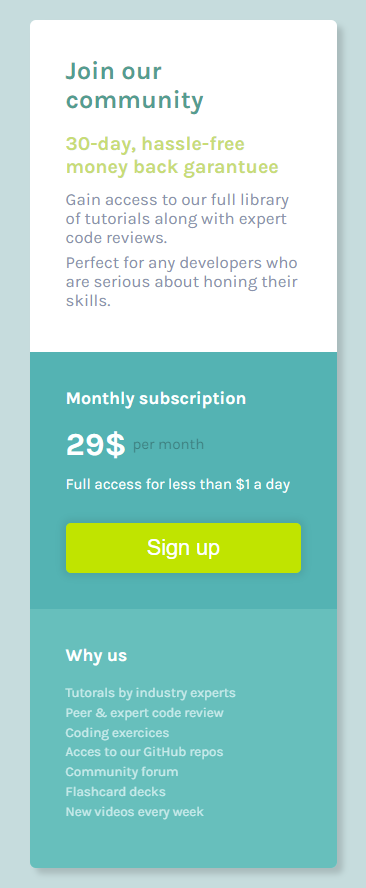
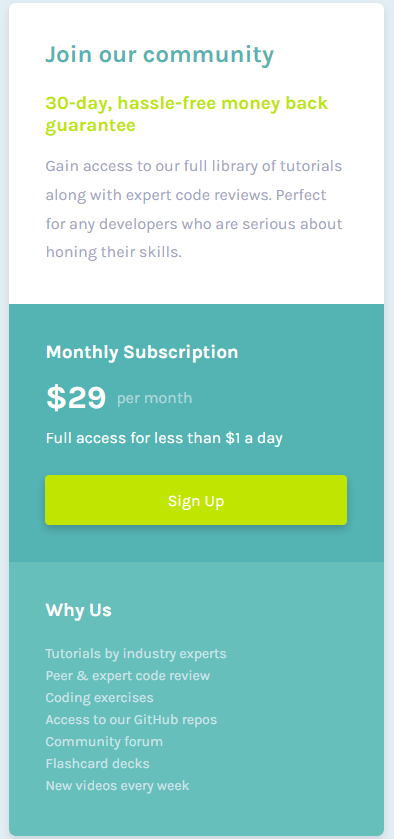
do it again from scratch

diff --git a/style.css b/style.css
@@ -1,142 +1,161 @@
-html {
-    box-sizing: border-box;
-    font-size: 14px;
-    font-family: 'Karla', sans-serif;
-    padding: 20px;
-}
-
-*,
-*:before,
-*:after {
-    box-sizing: inherit;
+* {
+  margin: 0;
+  padding: 0;
+  box-sizing: border-box;
 }
 
 body {
-    background-color: rgba(194, 220, 221, 1)
+  font-family: "Karla", sans-serif;
+  font-size: 16px;
+  display: flex;
+  align-items: center;
+  justify-content: center;
+  height: 100vh;
+  background-color: #e1edf4;
 }
 
-h2,
+h2 {
+  margin-bottom: 1.2rem;
+}
+
 h3,
+h4,
+h5,
+h6 {
+  margin-bottom: 1rem;
+}
+
 p {
-    margin: 0;
+  line-height: 1.8;
 }
 
-.main-container {
-    box-shadow: 5px 5px 5px rgba(0, 0, 0, 0.15);
-    border-radius: 5px;
-    overflow: hidden;
+h2 {
+  color: rgba(44, 178, 179, 1);
 }
 
-.community {
-    background-color: white;
-    padding: 30px;
+ul {
+  list-style-type: none;
+  color: hsl(204, 43%, 93%, 80%);
+  margin-top: 0.5rem;
 }
 
-.bottom-container {
-    display: flex;
-    flex-direction: column;
-    color: white;
-    font-size: 0.9rem;
+ul li {
+  margin-bottom: 5px;
+  font-size: 14px;
 }
 
-.subscription {
-    background-color: rgba(44, 178, 179, 1);
-    padding: 30px;
+.card {
+  width: 631px;
+  box-shadow: 0 4px 8px rgba(0, 0, 0, 0.1);
+  border-radius: 7px;
+  overflow: hidden;
 }
 
-.why-us {
-    background-color: rgba(74, 190, 189, 255);
-    padding: 30px;
+.top-section,
+.bottom-left,
+.bottom-right {
+  padding: 2.3rem;
+  display: flex;
+  flex-direction: column;
+  justify-content: center;
 }
 
-.community h2 {
-    color: rgba(60, 156, 146, 1);
-    margin-bottom: 15px;
+.top-section {
+  background-color: white;
+  flex: 1;
 }
 
-.community h3 {
-    color: rgba(201, 216, 126, 1);
-    margin-bottom: 10px;
+.top-section h2 {
+  margin-bottom: 1.5rem;
 }
 
-.community p {
-    margin-bottom: 5px;
-    color: rgba(133, 147, 171, 1);
+.top-section p {
+  color: hsl(218, 22%, 67%);
 }
 
-.subscription h3 {
-    margin-bottom: 10px;
+.top-section .moneyback {
+  color: hsl(71, 73%, 54%);
 }
 
-.subscription p {
-    margin-top: 10px;
+.bottom-section {
+  display: flex;
+  flex-direction: row;
+  flex: 1;
+  color: white;
+}
+
+.bottom-left {
+  background-color: rgba(44, 178, 179, 1);
+  width: 50%;
+}
+
+.bottom-left p {
+  margin-bottom: 0.5rem;
+}
+
+.bottom-right {
+  background-color: rgba(74, 190, 189, 255);
+  width: 50%;
 }
 
 .price-container {
-    display: flex;
-    align-items: center;
-    margin-top: 15px;
+  display: flex;
+  flex-direction: row;
+  align-items: center;
+  margin-bottom: 0.5rem;
 }
 
-#price {
-    font-weight: bold;
-    font-size: 1.9rem;
+.price-value {
+  font-size: 32px;
+  font-weight: 700;
+  margin-right: 10px;
 }
 
-#price-frequency {
-    color: rgba(34, 102, 102, 1);
-    opacity: 0.7;
-    margin-left: 5px;
+.price-mensuality {
+  margin-right: 5px;
+  color: hsl(204, 43%, 93%, 60%);
 }
 
-#sign-up-btn {
-    font-size: 18px;
-    color: white;
+.signup-btn {
+  width: 100%;
+  height: 50px;
+  display: block;
+  margin-top: 15px;
+  background-color: hsl(71, 73%, 54%);
+  color: white;
+  border-width: 0;
+  border-radius: 4px;
+  box-shadow: 0 4px 8px rgba(0, 0, 0, 0.2);
+  font-family: "Karla", sans-serif;
+  font-size: 16px;
+  font-family: 700;
+  transition: background-color 0.1s ease;
+  cursor: pointer;
+}
+
+.signup-btn:hover {
+  background-color: #3cae903f;
+}
+
+@media screen and (max-width: 576px) {
+  .card {
+    width: 375px;
+  }
+
+  .bottom-section {
+    flex-direction: column;
+  }
+
+  .top-section,
+  .bottom-left,
+  .bottom-right {
+    padding: 1.8rem;
+  }
+
+  .bottom-left,
+  .bottom-right {
+    flex: none;
     width: 100%;
-    background-color: rgba(191, 223, 50, 1);
-    border: none;
-    padding: 10px 24px;
-    border-radius: 4px;
-    margin-top: 25px;
-    box-shadow: 0px 0px 6px 3px rgba(47, 43, 43, 0.1);
-}
-
-#sign-up-btn:hover {
-    cursor: pointer;
-    background-color: rgba(176, 187, 129, 0.5);
-}
-
-
-.why-us ul {
-    padding: 0;
-    list-style: none;
-    opacity: 0.7;
-    font-size: 0.8rem;
-    margin-top: 17px;
-}
-
-.why-us li {
-    margin-bottom: 4px;
-}
-
-
-
-@media (min-width: 576px) {
-  .main-container {
-    width: 550px;
-    height: 400px;
-  }
-
-  .community {
-    height: 45%
-  }
-
-  .bottom-container {
-    flex-direction: row;
-    height: 55%;
-  }
-
-  .why-us, .subscription {
-    flex-basis: 50%;
+    box-sizing: border-box;
   }
 }

diff --git a/index.html b/index.html
@@ -1,49 +1,77 @@
-<html>
-
+<!DOCTYPE html>
+<html lang="en">
   <head>
-    <meta charset="UTF-8">
-    <meta name="viewport" content="width=device-width, initial-scale=1.0"> <!-- displays site properly based on user's device -->
+    <meta charset="UTF-8" />
+    <meta name="viewport" content="width=device-width, initial-scale=1.0" />
+    <!-- displays site properly based on user's device -->
 
-    <link rel="icon" type="image/png" sizes="32x32" href="./images/favicon-32x32.png">
-    <link rel="preconnect" href="https://fonts.googleapis.com">
-    <link rel="preconnect" href="https://fonts.gstatic.com" crossorigin>
-    <link href="https://fonts.googleapis.com/css2?family=Karla:wght@400;700&display=swap" rel="stylesheet"> 
-    <link rel="stylesheet" href="style.css">
-    
+    <link
+      rel="icon"
+      type="image/png"
+      sizes="32x32"
+      href="./images/favicon-32x32.png"
+    />
+
+    <link rel="preconnect" href="https://fonts.googleapis.com" />
+    <link rel="preconnect" href="https://fonts.gstatic.com" crossorigin />
+    <link
+      href="https://fonts.googleapis.com/css2?family=Karla:wght@400;700&display=swap"
+      rel="stylesheet"
+    />
+
     <title>Frontend Mentor | Single Price Grid Component</title>
-  </head>
 
+    <link rel="stylesheet" href="./style.css" />
+  </head>
   <body>
-    <div class="main-container">
-      <div class="community">
+    <div class="card">
+      <div class="top-section">
         <h2>Join our community</h2>
-        <h3>30-day, hassle-free money back garantuee</h3>
-        <p>Gain access to our full library of tutorials along with expert code reviews.</p>
-        <p> Perfect for any developers who are serious about honing their skills.</p>
+        <h3 class="moneyback">30-day, hassle-free money back guarantee</h3>
+        <p>
+          Gain access to our full library of tutorials along with expert code
+          reviews. Perfect for any developers who are serious about honing their
+          skills.
+        </p>
       </div>
-      <div class="bottom-container">
-        <div class="subscription">
-          <h3>Monthly subscription</h3>
+      <div class="bottom-section">
+        <div class="bottom-left">
+          <h3>Monthly Subscription</h3>
           <div class="price-container">
-            <div id="price">29$</div>
-            <div id="price-frequency">per month</div>
+            <div class="price-value">&dollar;29</div>
+            <div class="price-mensuality">per month</div>
           </div>
-          <p>Full access for less than $1 a day</p>
-          <button id="sign-up-btn" onclick="clickAlert()">Sign up</button></div><div class="why-us">
-          <h3>Why us</h3>
+          <p>Full access for less than &dollar;1 a day</p>
+          <button
+            title="Join our community"
+            class="signup-btn"
+            onClick="handleClick()"
+          >
+            Sign Up
+          </button>
+        </div>
+        <div class="bottom-right">
+          <h3>Why Us</h3>
           <ul>
-            <li>Tutorals by industry experts</li>
-            <li>Peer & expert code review</li>
-            <li>Coding exercices</li>
-            <li>Acces to our GitHub repos</li>
+            <li>Tutorials by industry experts</li>
+            <li>Peer &amp; expert code review</li>
+            <li>Coding exercises</li>
+            <li>Access to our GitHub repos</li>
             <li>Community forum</li>
             <li>Flashcard decks</li>
             <li>New videos every week</li>
           </ul>
         </div>
       </div>
+      <!-- <footer>
+        <p class="attribution">
+          Challenge by
+          <a href="https://www.frontendmentor.io?ref=challenge" target="_blank"
+            >Frontend Mentor</a
+          >. Coded by <a href="#">Izem Mangione</a>.
+        </p>
+      </footer> -->
     </div>
     <script src="script.js"></script>
   </body>
-
 </html>

diff --git a/script.js b/script.js
@@ -1,3 +1,3 @@
-function clickAlert() {
+function handleClick() {
     alert('You successfully signed up!')
 }
